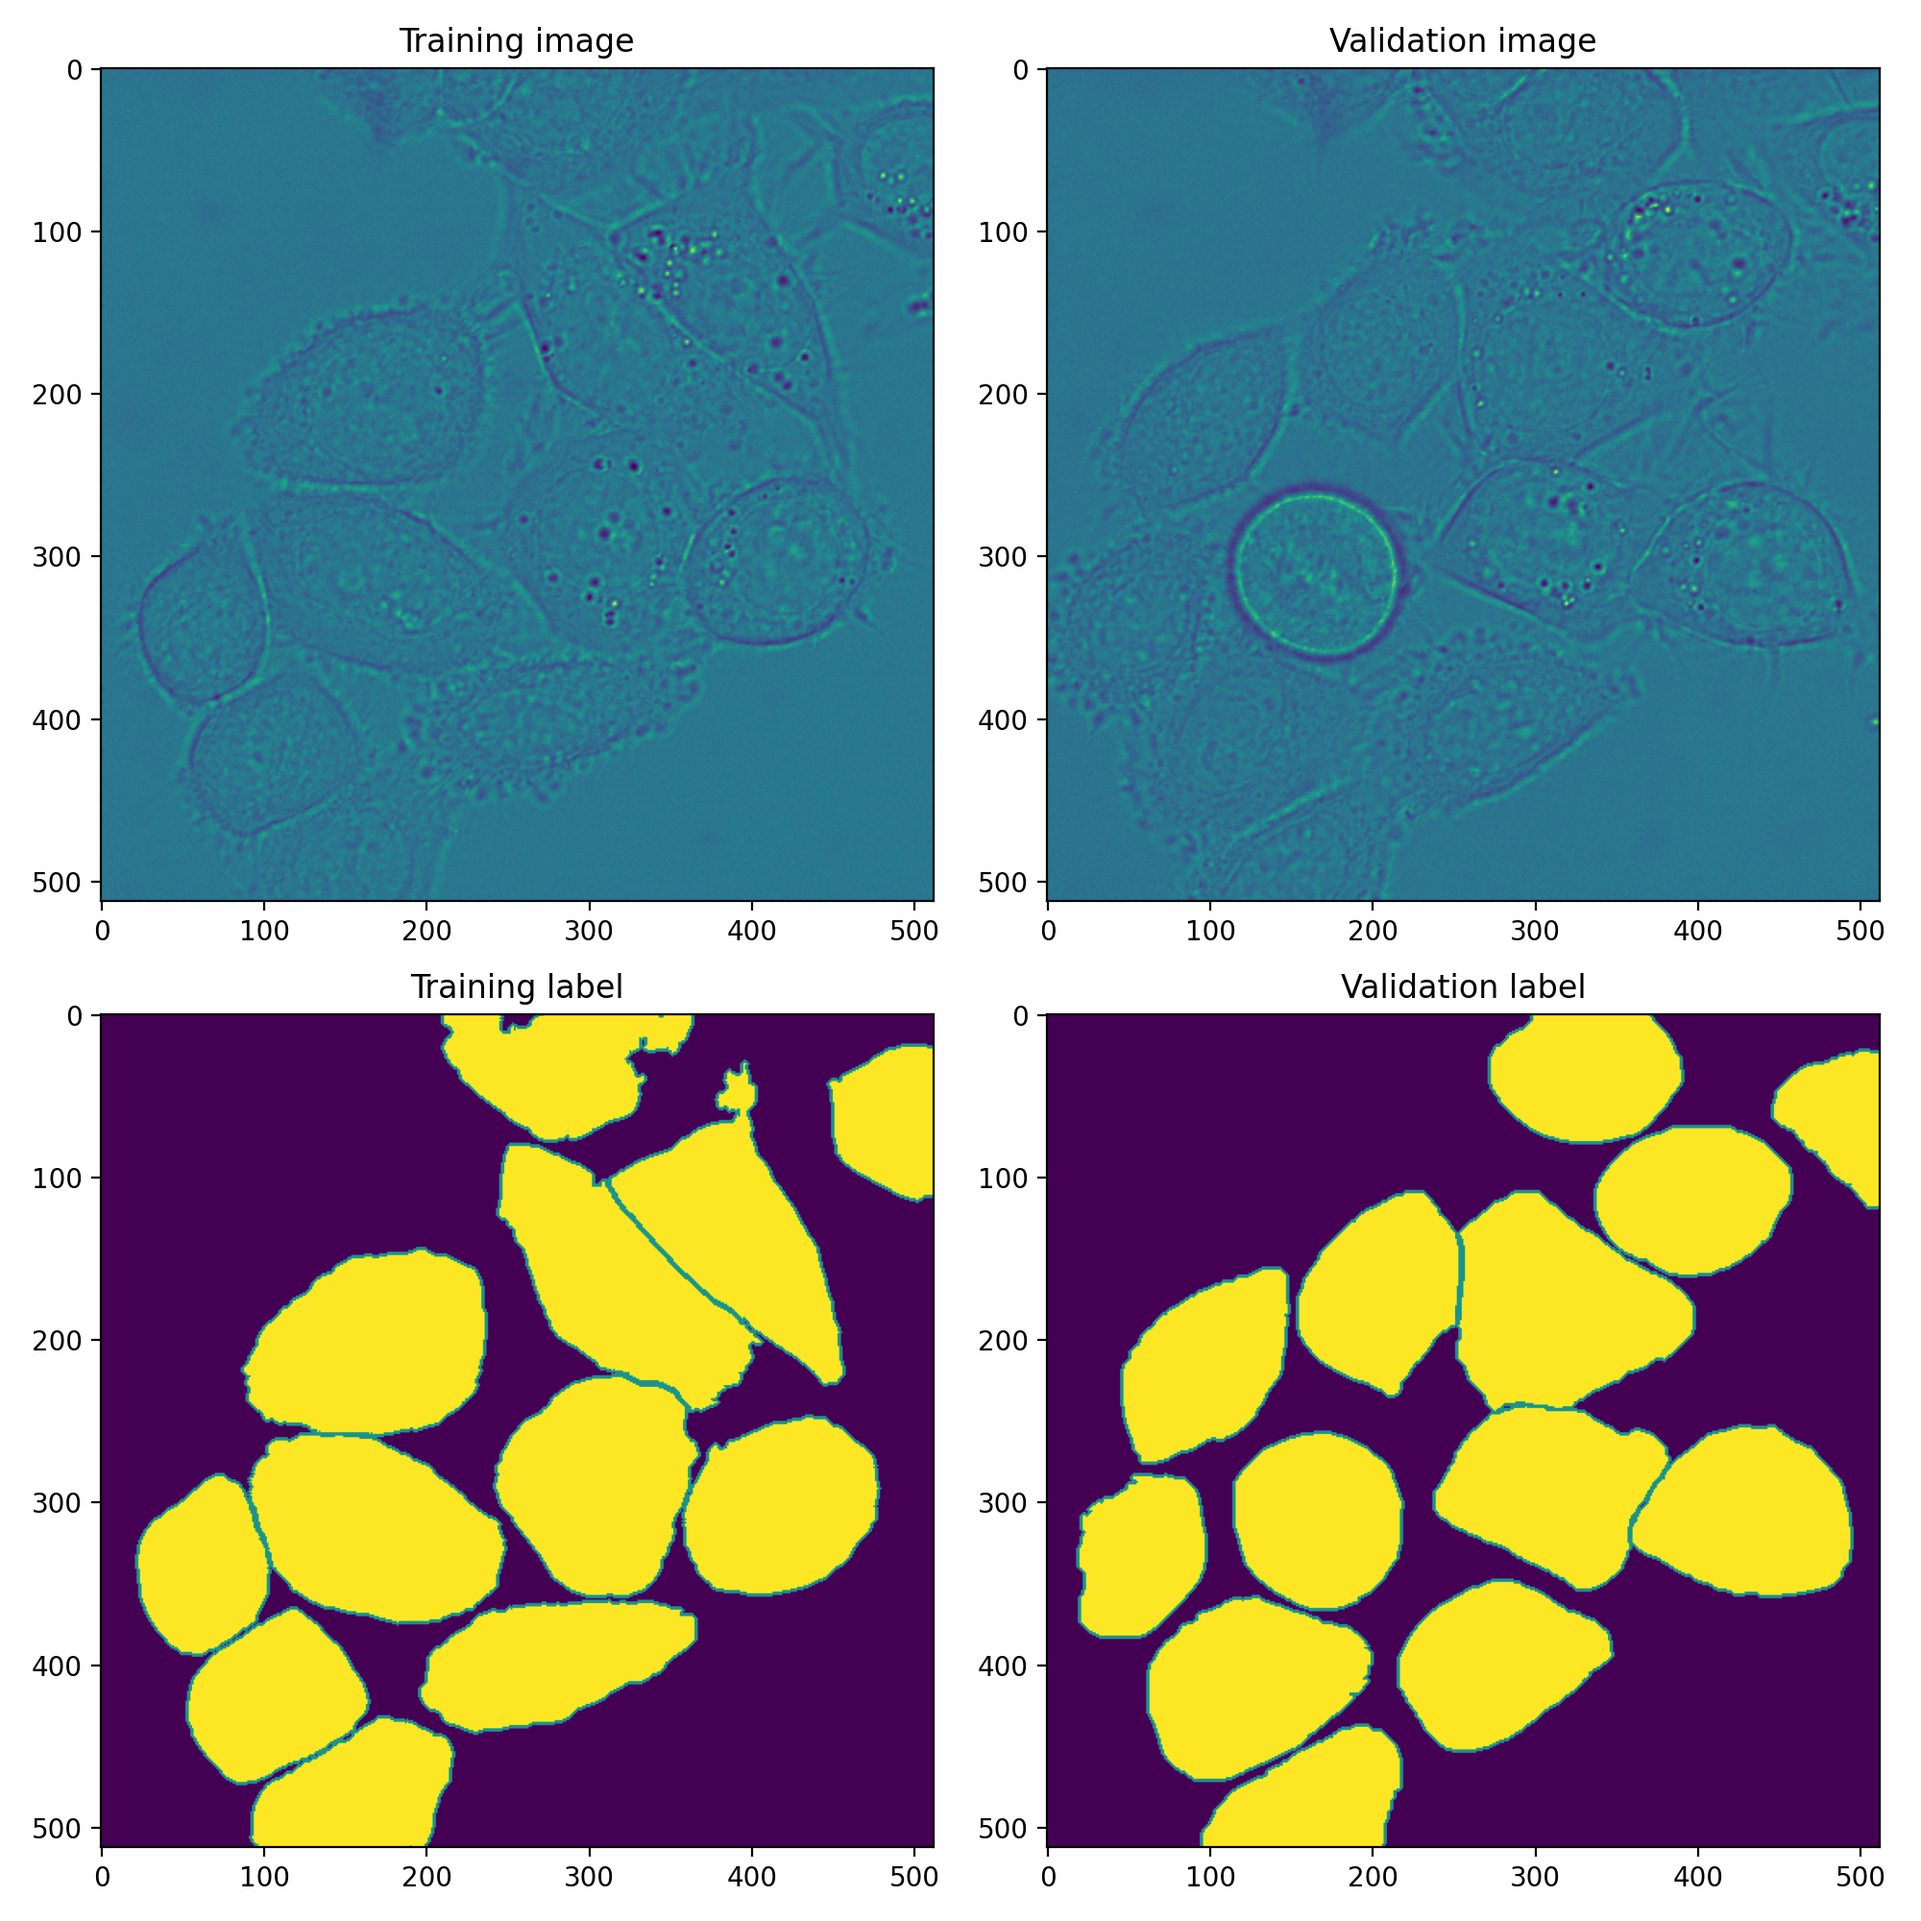
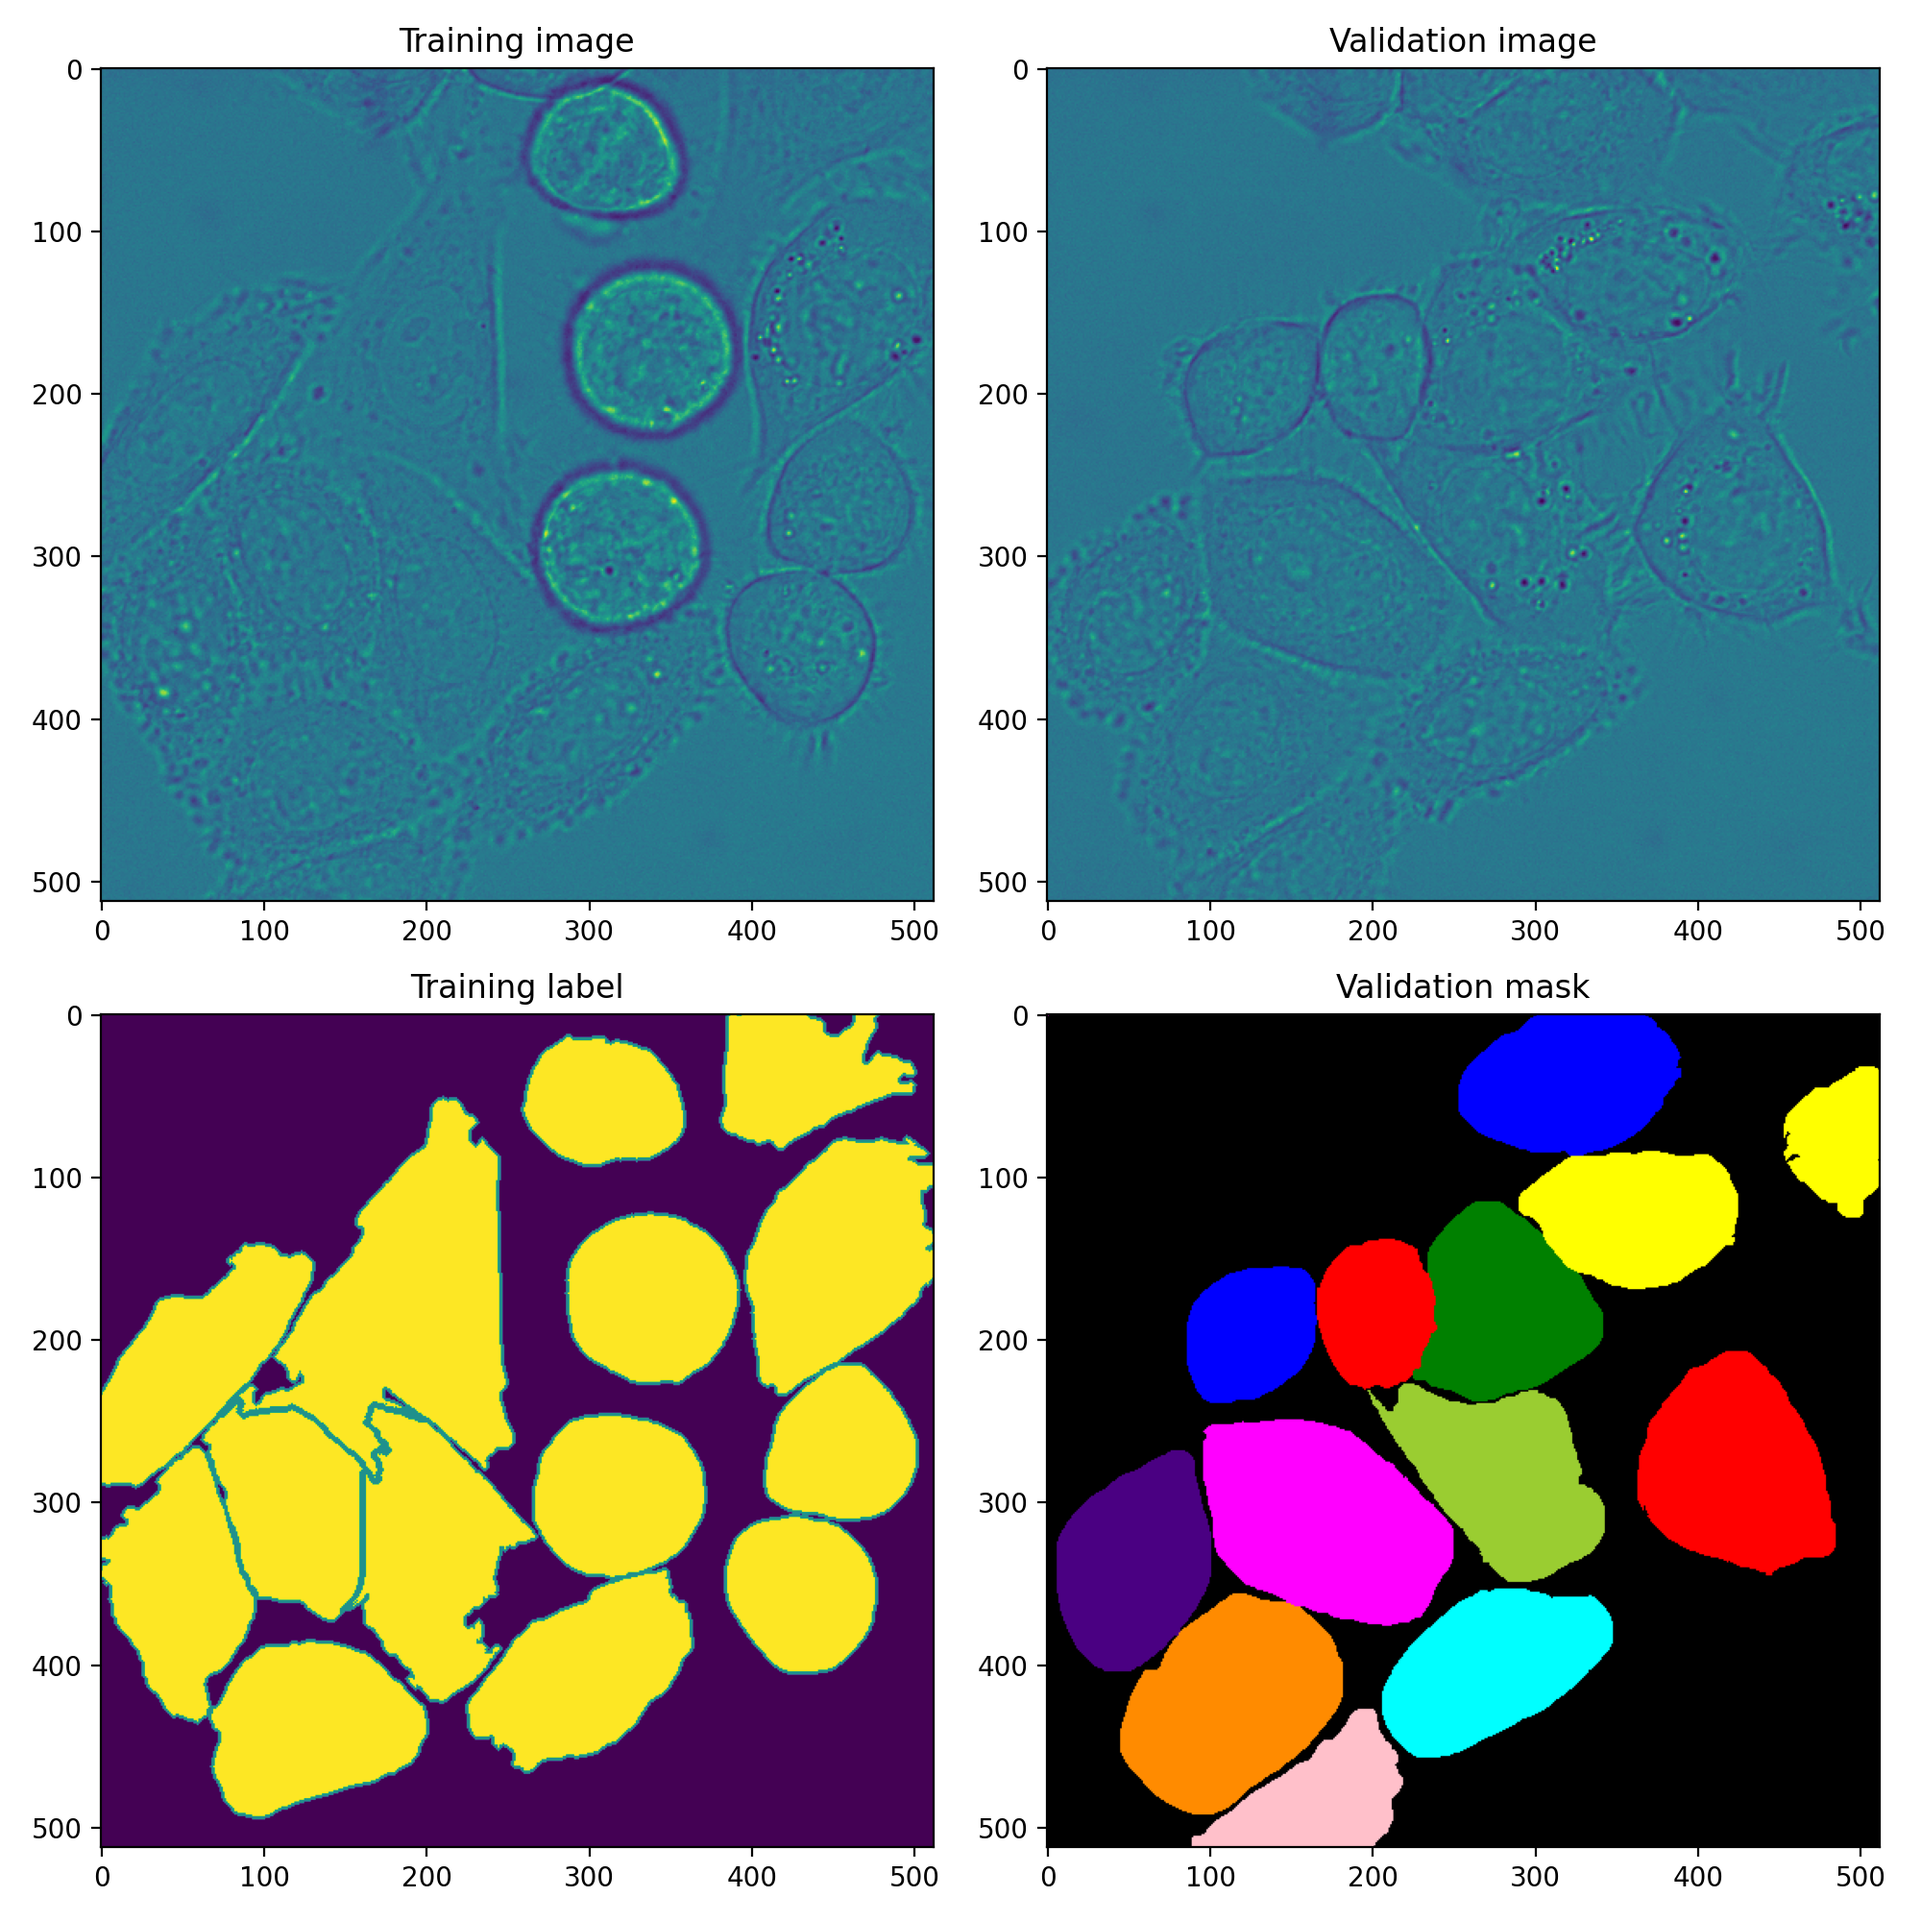
pics

diff --git a/imgPre_2D_GT+ST.py b/imgPre_2D_GT+ST.py
@@ -139,7 +139,13 @@ print('# of validation pairs: ', N_validation, 'range: ', img_validation.min(), 
 print('# of SEGs:', len(glob.glob(os.path.join(valid_GT_dir,'*.tif'))),len(glob.glob(os.path.join(valid_RS_dir,'*.tif'))))
 print('eg # %d'%idx)
 
-plt.figure(figsize=[15,10])
+seg = np.asarray(imageio.volread(os.path.join(valid_GT_dir,'man_seg%0.3d.tif'%idx)), dtype=np.uint16)
+seg[0,0] = 90
+seg_clr = clr.label2rgb(seg, image=None, colors=None,
+                        alpha=0.3, bg_label=0, bg_color=(0, 0, 0))
+
+plt.figure(figsize=[10,10])
+
 plt.subplot(2,2,1)
 plt.imshow(img_training[0,:,:])
 plt.title('Training image')
@@ -153,8 +159,9 @@ plt.imshow(img_validation[0,:,:])
 plt.title('Validation image')
 
 plt.subplot(2,2,4)
-plt.imshow(lbl_validation)
-plt.title('Validation label')
+plt.imshow(seg_clr)
+plt.title('Validation mask')
 
-plt.savefig(os.path.join(out_dir,'sample_pairs.png'),dpi=200)
+plt.tight_layout()
+plt.savefig(os.path.join(out_dir,'sample_pairs.png'),dpi=200, transparent=False)
 plt.show()

diff --git a/imgPre_3D_GT+ST.py b/imgPre_3D_GT+ST.py
@@ -195,7 +195,13 @@ print('# of validation pairs: ', N_validation, 'range: ', img_validation.min(), 
 print('# of SEGs:', len(glob.glob(os.path.join(valid_GT_dir,'*.tif'))),len(glob.glob(os.path.join(valid_RS_dir,'*.tif'))))
 print('eg # %d'%idx)
 
-plt.figure(figsize=[15,10])
+seg = np.asarray(imageio.volread(os.path.join(valid_GT_dir,'man_seg%0.3d.tif'%idx)), dtype=np.uint16)
+seg[0,0] = 90
+seg_clr = clr.label2rgb(seg, image=None, colors=None,
+                        alpha=0.3, bg_label=0, bg_color=(0, 0, 0))
+
+plt.figure(figsize=[10,10])
+
 plt.subplot(2,2,1)
 plt.imshow(img_training[0,:,:])
 plt.title('Training image')
@@ -209,8 +215,9 @@ plt.imshow(img_validation[0,:,:])
 plt.title('Validation image')
 
 plt.subplot(2,2,4)
-plt.imshow(lbl_validation)
-plt.title('Validation label')
+plt.imshow(seg_clr)
+plt.title('Validation mask')
 
-plt.savefig(os.path.join(out_dir,'sample_pairs.png'),dpi=200)
+plt.tight_layout()
+plt.savefig(os.path.join(out_dir,'sample_pairs.png'),dpi=200, transparent=False)
 plt.show()
